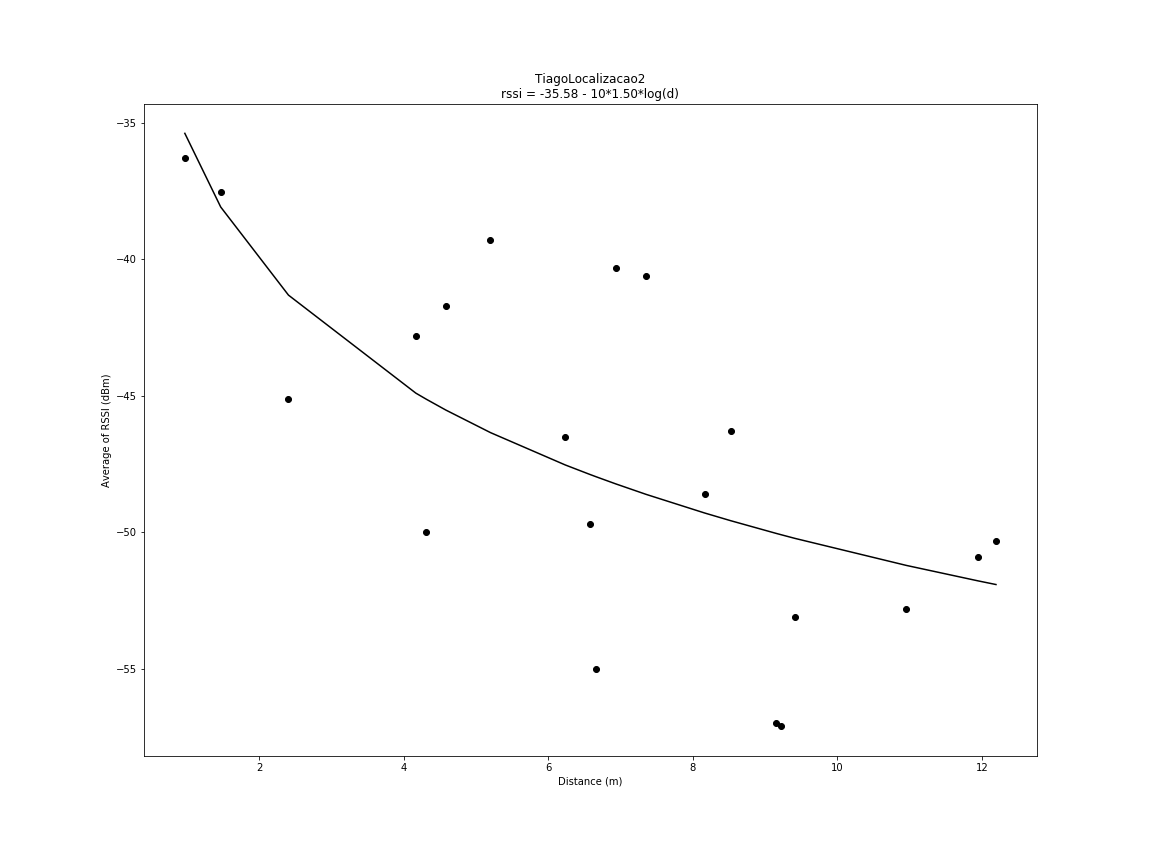
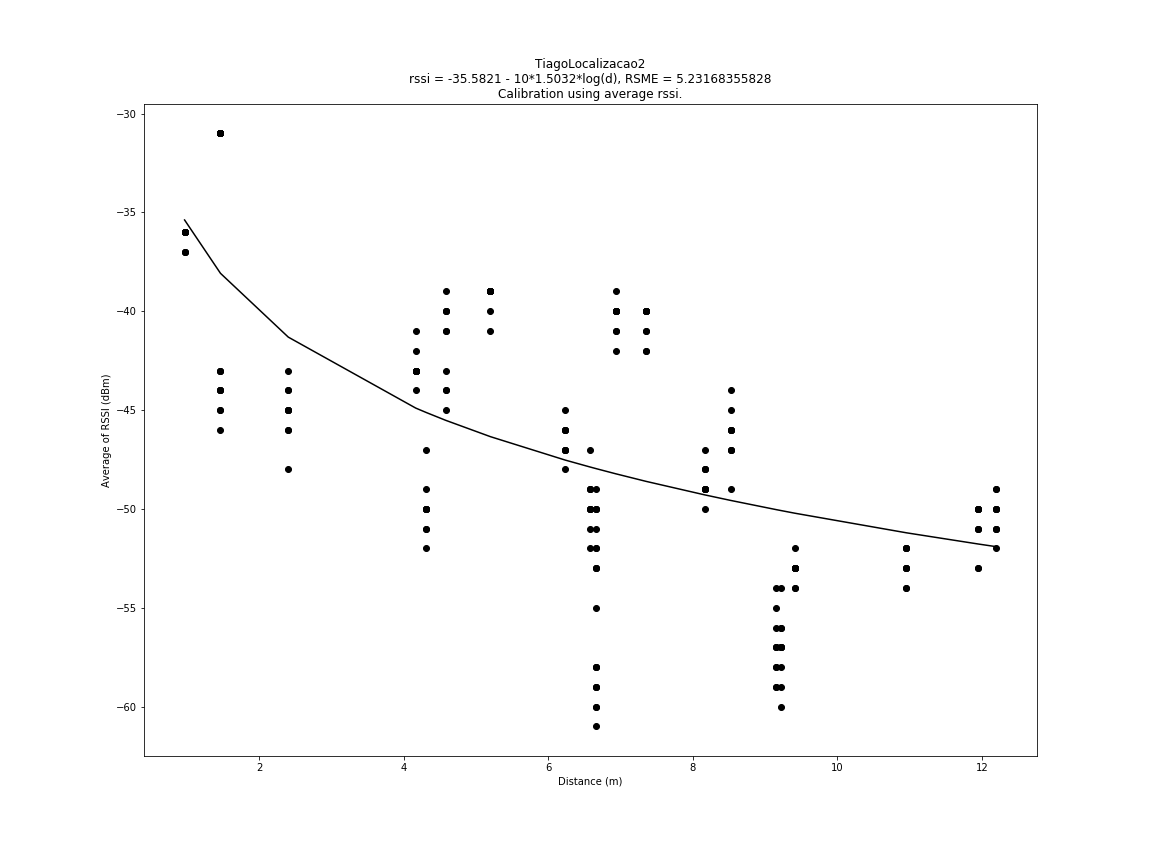
Calibrate All Points

diff --git a/calibrate_model_v2.py b/calibrate_model_v2.py
@@ -1,6 +1,14 @@
 #!/usr/bin/env python2
 # -*- coding: utf-8 -*-
 """
+Created on Wed Jan 29 16:35:28 2020
+
+@author: mister-c
+"""
+
+#!/usr/bin/env python2
+# -*- coding: utf-8 -*-
+"""
 Created on Mon Jan 27 13:33:54 2020
 
 @author: mister-c
@@ -17,25 +25,12 @@ import matplotlib.pyplot as plt
 i = 0
 rssi = []
 dist = []
-avg  = []
 networks = ['TiagoLocalizacao1','TiagoLocalizacao2','TiagoLocalizacao0','TiagoLocalizacao3', 'TiagoLocalizacao4',"LSC_HoneyPot"]
 
 # mean squared errors
 # x[0] = A, x[1] = n (path-loss coefficient)
 # for each sensor, calibrate...
 def mse(x):
-    sum = 0
-    n = len(dist[i])
-    for j in range(n):
-        sum = sum + ( avg[i][j] -  (x[0] - 10*x[1]*math.log10(dist[i][j])) )**2
-    return sum/n
-
-def calibrate():
-    x0 = np.array([1.0, 1.0])
-    res = minimize(mse, x0, method='BFGS', options={'xatol': 1e-8, 'disp': True})
-    return res
-
-def rsme(x):
     sum = 0
     div = 0
     n = len(dist[i])
@@ -44,24 +39,29 @@ def rsme(x):
         div = div + m
         for k in range(m):
             sum = sum + ( rssi[i][j][k] -  (x[0] - 10*x[1]*math.log10(dist[i][j])) )**2
-    return np.sqrt(sum/div)
+    return sum/div
 
-def plotModel(x, result):
+def calibrate():
+    x0 = np.array([1.0, 1.0])
+    res = minimize(mse, x0, method='BFGS', options={'xatol': 1e-8, 'disp': True})
+    return res
+
+def plotModel(x, fun):
     
     x0 = "{0:.4f}".format(x[0])
     x1 = "{0:.4f}".format(x[1])
     
     rssi_pred = x[0] - 10*x[1]*np.log10(np.sort(dist[i]))
-    cost = rsme(x)
+    cost = np.sqrt(fun)
     
     plt.figure(figsize=(16.0,12.0))
     for s in range(len(dist[i])):
         plt.plot(dist[i][s],[rssi[i][s]],'ko') 
     plt.plot(np.sort(dist[i]), rssi_pred, color = "k")
-    plt.title(networks[i] + "\nrssi = " + str(x0) + " - 10*" + str(x1) + "*log(d), RSME = " + str(cost) + "\nCalibration using average rssi.")
+    plt.title(networks[i] + "\nrssi = " + str(x0) + " - 10*" + str(x1) + "*log(d), RSME = " + str(cost) + "\nCalibration using all rssi.")
     plt.xlabel("Distance (m)")
-    plt.ylabel("Average of RSSI (dBm)")
-    plt.savefig(networks[i]+"_model")
+    plt.ylabel("RSSI (dBm)")
+    plt.savefig(networks[i]+"_model_all")
     plt.show()
     
 def removeDuplicate(dist,rssi):
@@ -87,7 +87,6 @@ def main():
     while(i < m):
         dist.append([])
         rssi.append([])
-        avg.append([])
         k = 0
         for filename in os.listdir(path):
             file  = open(path+filename, "r")
@@ -99,9 +98,6 @@ def main():
             k = k + 1
             
         dist[i], rssi[i] = removeDuplicate(dist[i], rssi[i])
-        for s in range(len(dist[i])):
-            avg[i].append( np.sum(rssi[i][s])/(1.0*len(rssi[i][s])) )
-
         res = calibrate()
         plotModel(res.x, res.fun)
         i = i + 1
